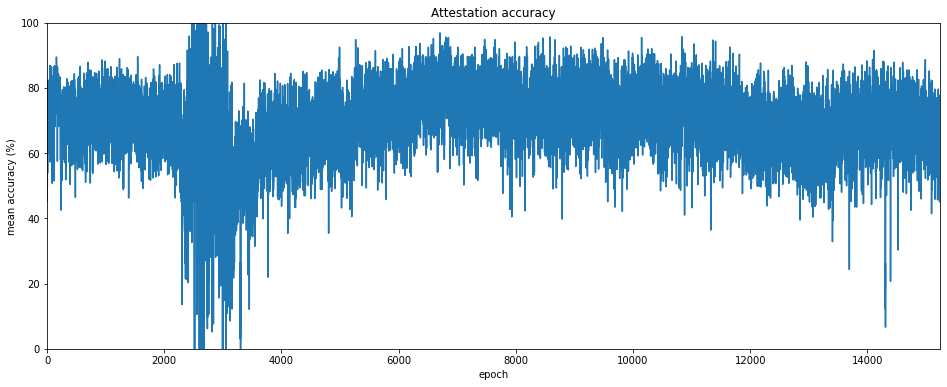
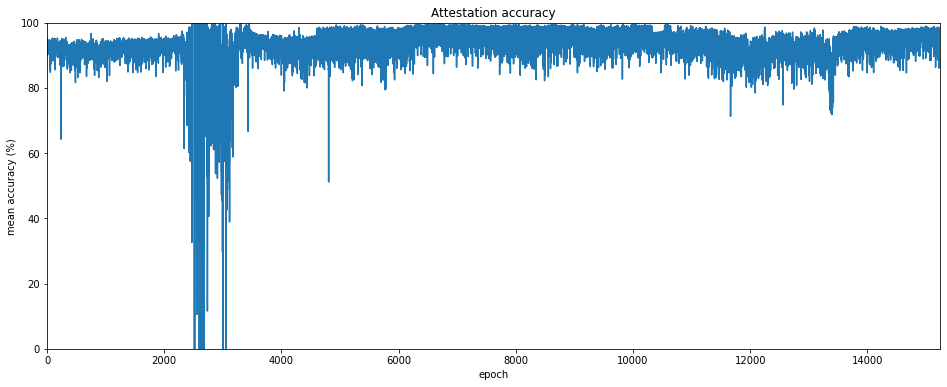
post updates

diff --git a/_posts/2020-10-20-medalla-3-network-stress.md b/_posts/2020-10-20-medalla-3-network-stress.md
@@ -147,20 +147,20 @@ mean_ae_reduced = [100 * sum_ae[e] / (success_count[e] + missed_count[e]) if suc
 accuracy = [100 * c / success_count[e] if success_count[e] > 0 else 0 for e, c in enumerate(correct_count)]
 
 clear_output()
-print(f"completed in {elapsed}.")
+print(f"completed in {elapsed}")
 ```
 
 </details>
 
 ```
 output:
-    completed in 00:17:10.
+    completed in 00:17:22
 ```
 
 ## Participation Rate
 We looked at the participation rate in the [previous article](/posts/medalla-validator-taxonomy). It's plotted again below, both with and without unresponsive validators, this time as a line graph for easier comparison with the other metrics.
 
-<details><summary><code>input 6</code></summary>
+<details><summary><code>input 5</code></summary>
 
 ```python
 # plot participation rate
@@ -191,7 +191,7 @@ One advantage of this measure is that it is not directly affected by the presenc
 
 Unsurprisingly, the mean inclusion distance jumps significantly around the roughtime incident. But interestingly there are a number of smaller spikes, some (but not all) of which match downward spikes in the participation rate.
 
-<details><summary><code>input 7</code></summary>
+<details><summary><code>input 6</code></summary>
 
 ```python
 # graphs and stats for mean inclusion distance
@@ -217,9 +217,9 @@ A metric that combines participation rate and inclusion distance into a single s
 
 $$ E_a = \frac{S_n-S_a}{S_i-S_a} $$
 
-Where $S_n$ is then next slot containing a block, $S_a$ is the slot number being attested to, and $S_i$ is the slot at which the attestation was actually included. If no attestation is included then $E_a=0$. So in effect, the inclusion delay is measured from the next slot containing a canonical block, since empty slots will cause attestations to be delayed through no fault of the validator.
+Where $S_n$ is then next slot containing a block, $S_a$ is the slot number being attested to, and $S_i$ is the slot at which the attestation was actually included. In the best case, the attestation is included at the next possible slot, i.e. $S_i=S_n$ and the attestation effectiveness $E_a=1$. If no attestation is included then $E_a=0$. In effect then, inclusion delay is measured from the next slot containing a canonical block, since empty slots will cause attestations to be delayed through no fault of the validator.
 
-<details><summary><code>input 8</code></summary>
+<details><summary><code>input 7</code></summary>
 
 ```python
 # plot attestation effectiveness
@@ -245,15 +245,17 @@ plt.show()
 ![png](/assets/images/medalla-3-network-stress_files/medalla-3-network-stress_12_0.png)
 
 ## Attestation Accuracy
-A subtler measure of attestation performance may be descibred as *attestation accuracy*. In this case we are interested in whether each validator attested to the correct *beacon head root* at each slot (as in the case of mean inclusion distance, we are concerned only with attestations which were included in the canonical chain, so there is no difference from excluding unresponsive validators).
+A subtler measure of attestation performance may be descibred as *attestation accuracy*. In this case we are interested in whether each validator attested to the correct *head root* at each slot.
 
 By *correct* here, we mean that given an attestation for slot $S_a$, the head root chosen is:
 1. canonical;
 2. the most recent canonical block up to and including slot $S_a$.
 
-So for example if a validator votes for a block in slot $S_{a}-1$, having not received any block in slot $S_a$ (due to network latency or other problems), but a block for slot $S_a$ later *does* become part of the finalised chain, then the validator can be said to have attested incorrectly. This is true even though the block to which they attested was itself canonical, and *was* at the chain head to the best of that validator's knowledge at time of attestation. Validators who attest incorrectly to the chain head receive no reward for that aspect of their attestation.
+So for example if a validator votes for a block in slot $S_a-1$, having not received any block in slot $S_a$ (due to network latency or other problems), but a block for slot $S_a$ later *does* become part of the finalised chain, then the validator can be said to have attested *incorrectly*. This is true even though the block to which they attested was itself canonical, and *was* at the chain head to the best of that validator's knowledge at time of attestation. Validators who attest incorrectly to the chain head receive no reward for that aspect of their attestation.
 
-<details><summary><code>input 9</code></summary>
+As in the case of mean inclusion distance, we are concerned only with attestations which were included in the canonical chain, so there is no difference from excluding unresponsive validators.
+
+<details><summary><code>input 8</code></summary>
 
 ```python
 # plot accuracy rate by epoch
@@ -274,16 +276,18 @@ plt.show()
 
 ![png](/assets/images/medalla-3-network-stress_files/medalla-3-network-stress_14_0.png)
 
-## Block Production Metrics (Empty Slots and Lost Blocks)
+## Block Production Metrics (Empty Slots and Orphaned Blocks)
 Apart from validators' performance on their attestation duties, we can also look at how validators perform as block producers. According to the eth2 spec, one validator is selected to produce a block at each slot. However for various reasons the validator might fail to do so, or might produce a block that is invalid.
 
-Another possibility is that the assigned validator does produce a block, but it does no propagate to the rest of the network quickly enough to be included in the canonical chain. This block is then descrined as "orphaned" or perhaps more accurately "sterile", since its line of . Equivalently, the block is *non-canonical*, as it did not become part of the finalised chain.
+Another possibility is that the assigned validator does produce a block, but it does no propagate to the rest of the network quickly enough to be included in the canonical chain. This block is then descrined as "orphaned". Equivalently, the block is *non-canonical*, as it did not become part of the finalised chain.
 
-The set of orphaned blocks is generally subjective — in theory there might be a lost block for every empty slot. In practice there will be slots for which no block was ever produced (for example because the validator assigned to produce it was unresponseive). The lost blocks included the `chaind` database are those which were available to the beacon node which collected them. Different nodes in different parts of the network may have been able to collect other lost blocks which ultimately were not propagated throughout the whole network.
+The set of orphaned blocks is generally subjective — in theory there might be an orphaned block for every empty slot. In practice there will be slots for which no block was ever produced (for example because the validator assigned to produce it was unresponseive). The orphaned blocks included the `chaind` database are those which were available to the beacon node which collected them. Different nodes in different parts of the network may have been able to collect other orphaned blocks which ultimately were not propagated throughout the whole network.
 
-Nonetheless, counts of empty slots
+Nonetheless, counts of both empty slots and orphaned blocks can serve as another metric for network health. Since a maximum of only 32 blocks is produced each epoch, these metrics are much coarser than the attestation metrics we considered above (by contrast thousands of attestations may be produced each epoch).
 
-<details><summary><code>input 10</code></summary>
+For empty slots, we can use look at the attestation duties to determine which validator had been assigned to produce a block. As with the previous metrics, we can then exclude unresponsive validators to see if this gives us a clearer picture.
+
+<details><summary><code>input 9</code></summary>
 
 ```python
 # count orphaned blocks
@@ -308,7 +312,7 @@ output:
     Dataset encompases 487601 slots of which 137745 (28.2%) were empty
 ```
 
-<details><summary><code>input 11</code></summary>
+<details><summary><code>input 10</code></summary>
 
 ```python
 # plot empty slots and orphaned blocks by epoch
@@ -392,8 +396,9 @@ plt.show()
 ![png](/assets/images/medalla-3-network-stress_files/medalla-3-network-stress_17_2.png)
 
 ## Slashing Events
+The final indicator we will consider in this article is the occurence of slashing events. 
 
-<details><summary><code>input 12</code></summary>
+<details><summary><code>input 11</code></summary>
 
 ```python
 # count up slashing events, plot per epoch

diff --git a/_posts/2020-10-20-medalla-1-data-prep.md b/_posts/2020-10-20-medalla-1-data-prep.md
@@ -125,7 +125,7 @@ print(f"completed database modifications in {elapsed}")
 
 ```
 output:
-    completed database modifications in 00:02:18
+    completed database modifications in 00:02:39
 ```
 
 ## Identifying Canonical Blocks
@@ -185,7 +185,7 @@ print(f"database contains {result[0]:,} blocks of which {result[1]:,} are canoni
 
 ```
 output:
-    finished (reached back to slot 0) in 00:32:11.
+    finished (reached back to slot 0) in 00:33:26.
     database contains 358,048 blocks of which 349,856 are canonical (2.3% orphan blocks)
 ```
 
@@ -281,6 +281,12 @@ for slot in range(latest_slot):
     earliest_inclusion_slot = cursor.fetchone()[0]
     min_distance = earliest_inclusion_slot - slot - 1
     
+    # get the chain head at this slot
+    cursor.execute(f"SELECT f_slot, f_root FROM t_blocks WHERE f_slot <= {slot} AND f_canonical "
+                   f"ORDER BY f_slot DESC LIMIT 1")
+    result = cursor.fetchone()
+    head_slot, head_root = result[0], result[1].hex()
+    
     # get all canonical attestations made for this slot
     cursor.execute(f"SELECT f_committee_index, f_inclusion_slot, f_aggregation_bits, "
                    f"f_inclusion_block_root, f_beacon_block_root FROM t_attestations "
@@ -289,26 +295,9 @@ for slot in range(latest_slot):
     
     for attestation in attestations:
         committee_index, inclusion_slot, aggregation_bits = attestation[:3]
-        attestation_root, head_root = attestation[3].hex(), attestation[4].hex()
+        inclusion_root, attestation_head_root = attestation[3].hex(), attestation[4].hex()
         
-        # to determine if this attestation is "correct", first check it attests to a canonical block
-        cursor.execute(f"SELECT f_canonical, f_slot FROM t_blocks WHERE f_root = '\\x{head_root}'")
-        result = cursor.fetchone()
-        if result:
-            (canonical, head_slot) = result
-            if not canonical:
-                correct = -1
-            elif head_slot == slot:
-                correct = 1
-            else:
-                # if head for this attestation is not current slot, check the intervening slots were empty 
-                cursor.execute(f"SELECT SUM(f_canonical::int) FROM t_blocks "
-                               f"WHERE f_slot > {head_slot} AND f_slot <= {slot}")
-                count = cursor.fetchone()[0]
-                
-                correct = 1 if count == 0 else -1
-        else:
-            correct = -1
+        correct = 1 if attestation_head_root == head_root else -1
         
         inclusion_distance = inclusion_slot - slot - 1
         committee_participation = decode_attestation(aggregation_bits, committee_lookup[committee_index])
@@ -365,19 +354,12 @@ connection.commit()
 
 ```
 output:
-    attestations processed in 04:30:22
+    attestations processed in 02:23:47
     indexing validator performance table...done
     saving validator first/latest attestation epochs...done
 ```
 
 ## Identifying Validator Clients and Block Producers
-Finally, we will attempt to compare the performance of the different eth2 clients participating in the Medalla testnet. These clients are:
-- [Prysm](https://github.com/prysmaticlabs/prysm) from [Prysmatic Labs](https://prysmaticlabs.com/)
-- [Lighthouse](https://github.com/sigp/lighthouse) from [Sigma Prime](https://sigmaprime.io/)
-- [Teku](https://github.com/PegaSysEng/teku) from [PegaSys](https://pegasys.tech/)
-- [Nimbus](https://github.com/status-im/nimbus) from [Status.im](https://status.im/)
-- [Lodestar](https://github.com/ChainSafe/lodestar) from [Chainsafe](https://chainsafe.io/)
-
 There is no definitive way to identify which client software powers each validator — as long as a given client follows the protocol rules, it is equivalent to any other client from the perspective of the network. However, for the purposes of Medalla, many users chose to indicate what client they were using in the `graffiti` field in blocks they propose. Those aiming to collect [POAP non-fungible tokens (NFTs)](https://beaconcha.in/poap) will have set their validators to include a graffiti string indicating their eth1 deposit address, and ending with a letter A, B, C, D or E, corresponding to the Prysm, Lighthouse, Teku, Nimbus and Lodestar clients respectively. For example, the third block in the dataset has the graffiti `poapg4eM7/cwRi/ZhaZg0zp6b9A6JlcA` indicating the block was produced by the Prysm client. Other validators have included the full name of their client in the graffiti — the very next block includes the graffiti `Lighthouse/v0.2.0/f26adc0a`. It seems a reasonable guess that this block was produced by the Lighthouse client.
 
 Of course, the graffiti field can be set to whatever the user running the validator chooses, including misleading information about the client being used. For the most part there is little reason to expect users would be untruthful, with the exception that some may have chosen to game the POAP system to collect NFTs for all clients without the hassle of actually installing and using them. Nonetheless, to make progress with our analysis we will need to assume that the majority of validators were honest. Where we have large numbers of validators indicating the use of a certain client therefore, we might expect to gain  some insight into how that client has performed in aggregate. We may need to be a little more cautious if there are clients with a very small number of validators indicating participation through their beacon chain graffiti.

diff --git a/_posts/2020-10-20-medalla-4-client-comparison.md b/_posts/2020-10-20-medalla-4-client-comparison.md
@@ -3,9 +3,19 @@
 title: "Comparing the Eth2 Clients on the Medalla Network"
 permalink: "/posts/medalla-client-comparison/"
 ---
-Using the client data aggregated in [data pre-processing](/posts/medalla-data-prep), we'll now take a look at how the different clients active on the Medalla testnet compared.
+In this article, we will attempt to compare the performance of the different eth2 clients participating in the Medalla testnet. These clients are:
 
-Of course, as already mentioned, this analysis relies on the truthfulness of validators' block graffiti. It is also a snapshot in time. All the eth2 clients have continued to be developed and refined throughout the period under review. Problems apparent in the earlier phases may already have been resolved.
+- [Prysm](https://github.com/prysmaticlabs/prysm) from [Prysmatic Labs](https://prysmaticlabs.com/)
+- [Lighthouse](https://github.com/sigp/lighthouse) from [Sigma Prime](https://sigmaprime.io/)
+- [Teku](https://github.com/PegaSysEng/teku) from [PegaSys](https://pegasys.tech/)
+- [Nimbus](https://github.com/status-im/nimbus) from [Status.im](https://status.im/)
+- [Lodestar](https://github.com/ChainSafe/lodestar) from [Chainsafe](https://chainsafe.io/)
+
+We've already made a guess at which client each validator was running as part of [data pre-processing](/posts/medalla-data-prep), we'll now take a look at how theycompared.
+
+This work comes with many caveats. Firstly, as already mentioned, this analysis relies on the truthfulness of validators' block graffiti. Secondly, our analysis will impacted by the type of hardware, and perhaps even the type of user, for each client. For example, Nimbus has been promoted as a client targeted at minimal hardware (phones, Raspberry Pis etc.), so we might expect that a typical Nimbus user will be running lower-powered hardware. At the other end of the spectrum, Teku has been promoted as an enterprise solution. Perhaps therefore a typical Teku user will be running more powerful computers. Finally, the available data constitutes a snapshot in time, so we should be cautious about projecting forwards the result of analysis on this dataset into the future. All the eth2 clients have continued to be developed and refined throughout the period under review. Where problems with a particular client are apparent in this data, they may already be resolved in the latest client release.
+
+Nonetheless, there we may be able to make some useful obvservations based on the client-identifying data available to us. So one last time, let's get started with the Python imports and database connection:
 
 <details><summary><code>input 1</code></summary>
 

diff --git a/_posts/2020-10-20-medalla-2-validator-taxonomy.md b/_posts/2020-10-20-medalla-2-validator-taxonomy.md
@@ -537,11 +537,7 @@ display(comp.reset_index().head(10).style
 ![png](/assets/images/medalla-2-validator-taxonomy_files/medalla-2-validator-taxonomy_20_0.png)
 
 <style  type="text/css" >
-</style>
-
-<table id="T_926cab80_121c_11eb_b89d_23b5274849f9" >
-
-<caption>Participation rates (%) first 10 epochs</caption><thead>    <tr>        <th class="col_heading level0 col0" >epoch</th>        <th class="col_heading level0 col1" >All data</th>        <th class="col_heading level0 col2" >Excluding absent</th>    </tr></thead><tbody>
+</style><table id="T_926cab80_121c_11eb_b89d_23b5274849f9" ><caption>Participation rates (%) first 10 epochs</caption><thead>    <tr>        <th class="col_heading level0 col0" >epoch</th>        <th class="col_heading level0 col1" >All data</th>        <th class="col_heading level0 col2" >Excluding absent</th>    </tr></thead><tbody>
                 <tr>
                                 <td id="T_926cab80_121c_11eb_b89d_23b5274849f9row0_col0" class="data row0 col0" >0</td>
                         <td id="T_926cab80_121c_11eb_b89d_23b5274849f9row0_col1" class="data row0 col1" >59.8</td>
@@ -592,9 +588,7 @@ display(comp.reset_index().head(10).style
                         <td id="T_926cab80_121c_11eb_b89d_23b5274849f9row9_col1" class="data row9 col1" >70.4</td>
                         <td id="T_926cab80_121c_11eb_b89d_23b5274849f9row9_col2" class="data row9 col2" >73.5</td>
             </tr>
-    </tbody>
-
-</table>
+    </tbody></table>
 
 ## Activation delays
 An interesting question arises from the delay in reaching quorum after genesis — do new validators always struggle to join the network, or is this an issue which occurred at genesis and was less important once the network was established? We can look at this by counting how *late* each validator is with its first attestation. Genesis validators are expected to attest in epoch 0, while later validators should first attest during their `attestation_epoch`.
